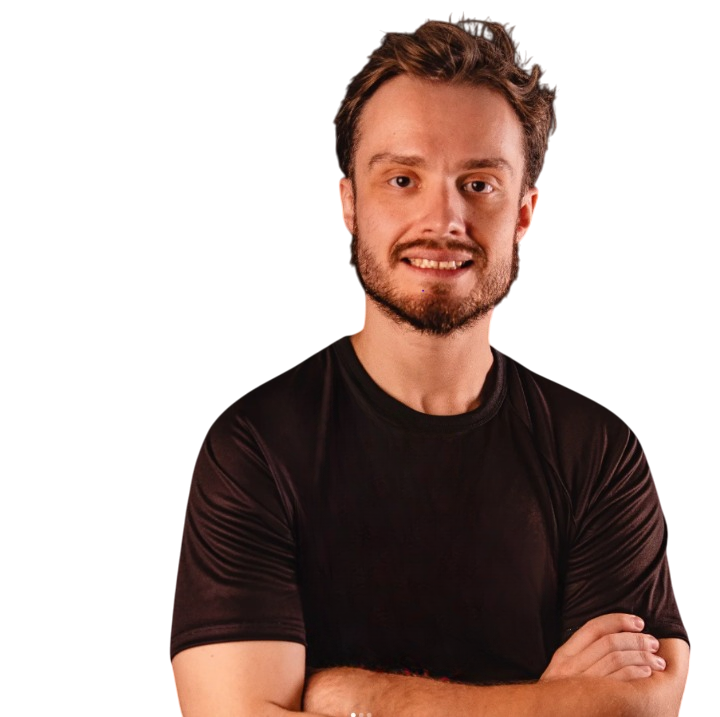
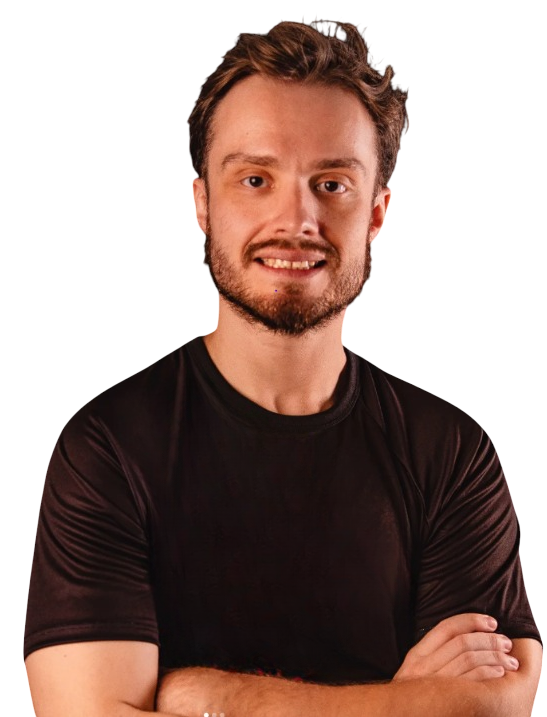
updates

diff --git a/index.html b/index.html
@@ -31,6 +31,10 @@
             overflow-x: hidden;
         }
 
+        .h2, h3{
+            margin-bottom:20px !important;
+        }
+
         /* Header */
         .faixa-inicial {
             height: 90px;
@@ -93,10 +97,23 @@
             text-align: center;
         }
 
+        .mob-ver{
+            display: none;
+        }
+
         .banner-texto h2 {
-            font-size: 3.2rem;
+            font-size: 2.7rem;
             color: var(--cor-1);
-            margin-bottom: 1.5rem;
+            margin-bottom: 20px;
+            line-height: 1.2;
+            font-weight: 600;
+            font-family: 'Poppins', sans-serif;
+        }
+
+        .banner-texto h3 {
+            font-size: 1.0rem;
+            color: var(--cor-2);
+            margin-bottom: 2.5rem;
             line-height: 1.2;
             font-weight: 600;
             font-family: 'Poppins', sans-serif;
@@ -163,88 +180,6 @@
             text-align: center;
         }
 
-        /* Ajustes para telas menores */
-        @media (max-width: 768px) {
-            .banner-container {
-                flex-direction: column;
-                gap: 1rem;
-            }
-
-            .banner-texto h2 {
-                font-size: 2.5rem; /* Ajustado para melhor legibilidade em mobile */
-            }
-
-            .banner-texto p {
-                font-size: 1rem; /* Ajustado para melhor legibilidade em mobile */
-            }
-
-            .banner-imagem img {
-                height: 400px;
-                width: 100%;
-                object-fit: cover;
-                border-radius: 1rem;
-                margin-bottom: 10px;
-            }
-
-            .cta-button {
-                display: none;
-            }
-
-            .cta-button-mobile {
-                display: inline-block;
-            }
-        }
-
-        @media (max-width: 480px) {
-            .logo h1 {
-                font-size: 1.8rem; /* Ajustado para melhor legibilidade em mobile */
-            }
-
-            .logo .subtitle span {
-                font-size: 0.8rem; /* Ajustado para melhor legibilidade em mobile */
-            }
-
-            .banner-texto h2 {
-                font-size: 2rem; /* Ajustado para melhor legibilidade em mobile */
-            }
-
-            .banner-texto p {
-                font-size: 0.9rem; /* Ajustado para melhor legibilidade em mobile */
-            }
-
-            .banner-imagem img {
-                height: 350px;
-            }
-
-            .sobre-mim-conteudo {
-                padding: 1rem;
-            }
-
-            .sobre-mim-slide h3 {
-                font-size: 1.5rem; /* Ajustado para melhor legibilidade em mobile */
-            }
-
-            .sobre-mim-slide p {
-                font-size: 0.9rem; /* Ajustado para melhor legibilidade em mobile */
-            }
-
-            .grid-desafios {
-                grid-template-columns: 1fr;
-            }
-
-            .card-desafio {
-                padding: 1rem;
-            }
-
-            .card-desafio i {
-                font-size: 1.5rem;
-            }
-
-            .metodo-item i {
-                font-size: 1.5rem;
-            }
-        }
-
         /* Seção Sobre Mim */
         .sobre-mim {
             padding: 8% 5%;
@@ -254,10 +189,10 @@
         }
 
         .sobre-mim-conteudo {
-            max-width: 800px;
+            max-width: 600px;
             margin: 0 auto;
             background: white;
-            padding: 2rem;
+            padding: 1.5rem;
             border-radius: var(--borda-redonda);
             box-shadow: var(--sombra);
             position: relative;
@@ -272,7 +207,7 @@
 
         .sobre-mim-slide {
             flex: 0 0 100%;
-            padding: 1rem;
+            padding: 0.5rem;
             text-align: center;
             box-sizing: border-box;
             display: none;
@@ -469,8 +404,8 @@
         .consultorio-slide img {
             width: 100%;
             height: 100%;
-            object-fit: cover; /* Mantém o aspecto da imagem */
-            border-radius: var(--borda-redonda);
+            object-fit:contain; /* Mantém o aspecto da imagem */
+            border-radius: 40px;
         }
 
         .consultorio-navegacao {
@@ -496,20 +431,6 @@
             transform: scale(1.2);
         }
 
-        /* Ajustes para telas menores */
-        @media (max-width: 768px) {
-            .atendimento-container {
-                flex-direction: column;
-            }
-
-            .atendimento-item {
-                margin-bottom: 1.5rem;
-            }
-
-            .consultorio-slider {
-                max-width: 100%;
-            }
-        }
 
         /* Footer */
         .faixa-final {
@@ -561,6 +482,116 @@
             }
         }
 
+            /* Ajustes para telas menores */
+            @media (max-width: 768px) {
+
+            .atendimento-container {
+                flex-direction: column;
+            }
+
+            .atendimento-item {
+                margin-bottom: 1.5rem;
+            }
+
+            .consultorio-slider {
+                max-width: 100%;
+            }
+
+            .banner-container {
+                flex-direction: column;
+                gap: 1rem;
+            }
+
+            .banner-texto h2 {
+                font-size: 2.5rem; /* Ajustado para melhor legibilidade em mobile */
+            }
+
+            .banner-texto p {
+                font-size: 1rem; /* Ajustado para melhor legibilidade em mobile */
+            }
+
+            .banner-imagem img {
+                height: 400px;
+                width: 100%;
+                object-fit: cover;
+                border-radius: 1rem;
+                margin-bottom: 10px;
+            }
+
+            .cta-button {
+                display: none;
+            }
+
+            .cta-button-mobile {
+                display: inline-block;
+            }
+        }
+
+        @media (max-width: 480px) {
+            .logo h1 {
+                font-size: 1.8rem; /* Ajustado para melhor legibilidade em mobile */
+            }
+
+            .logo .subtitle span {
+                font-size: 0.8rem; /* Ajustado para melhor legibilidade em mobile */
+            }
+
+            .pc-ver{
+                display: none;
+            }
+
+            .mob-ver{
+                display:block;
+            }
+
+            .banner-texto h2 {
+                font-size: 2rem; /* Ajustado para melhor legibilidade em mobile */
+                margin-bottom:20px;
+            }
+
+            .banner-texto p {
+                font-size: 0.9rem; /* Ajustado para melhor legibilidade em mobile */
+                margin-bottom:10px;
+            }
+
+            .banner-imagem img {
+                height: 350px;
+            }
+
+            .sobre-mim-conteudo {
+                padding: 0.25rem;
+            }
+
+            .sobre-mim-slide h1 .sobre-mim-slide h2 .sobre-mim-slide h3{
+                margin-bottom:5px;
+            }
+
+            .sobre-mim-slide h3 {
+                font-size: 1.5rem; /* Ajustado para melhor legibilidade em mobile */
+            }
+
+            .sobre-mim-slide p {
+                font-size: 0.9rem; /* Ajustado para melhor legibilidade em mobile */
+                margin-bottom:20px;
+            }
+
+            .grid-desafios {
+                grid-template-columns: 1fr;
+            }
+
+            .card-desafio {
+                padding: 1rem;
+            }
+
+            .card-desafio i {
+                font-size: 1.5rem;
+            }
+
+            .metodo-item i {
+                font-size: 1.5rem;
+            }
+        }
+
         @media (max-width: 768px) {
             .grid-desafios {
                 grid-template-columns: repeat(2, 1fr);
@@ -589,15 +620,24 @@
 
     <section class="banner">
         <div class="banner-container">
-            <div class="banner-texto">
-                <h2>Encontre Equilíbrio e Bem-Estar Emocional</h2>
-                <p>Ansiedade, depressão e estresse são desafios comuns que podem afetar qualquer pessoa. Você não está sozinho. Com uma abordagem humanizada e personalizada, eu te ajudo a superar esses obstáculos e reconquistar a qualidade de vida que você merece.</p>
+            <div class="banner-texto pc-ver">
+                <h2>Iago Benacci</h2>
+                <h3>Psicólogo CRP 06/135768</h2>
+                <p>Sente que não está conseguindo lidar com tudo por conta própria? Eu te ajudo!</p>
                 <a href="https://api.whatsapp.com/send?phone=5519971080508&text=Olá!%20Vim%20pelo%20site!%20Gostaria%20de%20mais%20informações%20sobre%20a%20consulta.">
                     <button class="cta-button">Agende sua Consulta <i class="fa fa-whatsapp logo-whatsapp" style="font-size:30px; color:#25D366"></i></button>
                 </a>
             </div>
             <div class="banner-imagem">
                 <img src="img/perfil.png" alt="Iago Benacci">
+            </div>
+            <div class="banner-texto mob-ver">
+                <h2>Iago Benacci</h2>
+                <h3>Psicólogo CRP 06/135768</h2>
+                <p>Sente que não está conseguindo lidar com tudo por conta própria? Eu te ajudo!</p>
+                <a href="https://api.whatsapp.com/send?phone=5519971080508&text=Olá!%20Vim%20pelo%20site!%20Gostaria%20de%20mais%20informações%20sobre%20a%20consulta.">
+                    <button class="cta-button">Agende sua Consulta <i class="fa fa-whatsapp logo-whatsapp" style="font-size:30px; color:#25D366"></i></button>
+                </a>
             </div>
             <a href="https://api.whatsapp.com/send?phone=5519971080508&text=Olá!%2C%20Vim%20pelo%20site!%20Gostaria%20de%20mais%20informações%20sobre%20a%20consulta.">
                 <button class="cta-button cta-button-mobile">Agende sua Consulta <i class="fa fa-whatsapp logo-whatsapp" style="font-size:30px; color:#25D366"></i></button>
@@ -659,6 +699,7 @@
                         <h4>Atendimento Presencial</h4>
                         <p>Realizado em meu consultório em Itapira-SP, proporcionando um ambiente seguro e acolhedor para o seu desenvolvimento pessoal.</p>
                     </div>
+                    
                     <div class="atendimento-item">
                         <i class="fas fa-laptop"></i>
                         <h4>Atendimento Online</h4>
